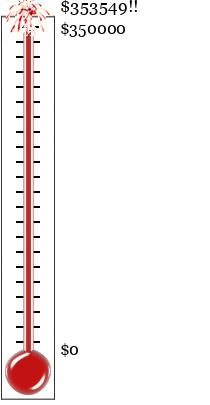
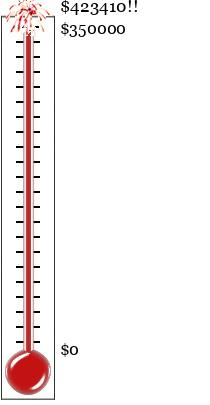
2023 fundraising update: $423,410; Google becomes a Platinum supporter

Changed region(s): [[0.3143, 0.0, 0.6286, 0.0593]]

diff --git a/contributors.html b/contributors.html
@@ -113,6 +113,9 @@ On request we will provide a link to your website for donations of
             <LI><A HREF=donations.html>Total from smaller donors</A>
         </UL>
         <LI> Platinum: $50,000 to $100,000
+            <UL>
+                <LI><A HREF=https://www.google.com>Google</A>
+            </UL>
         <LI> Gold: $25,000 to $50,000
             <UL>
                 <LI>Macrocosm, LLC
